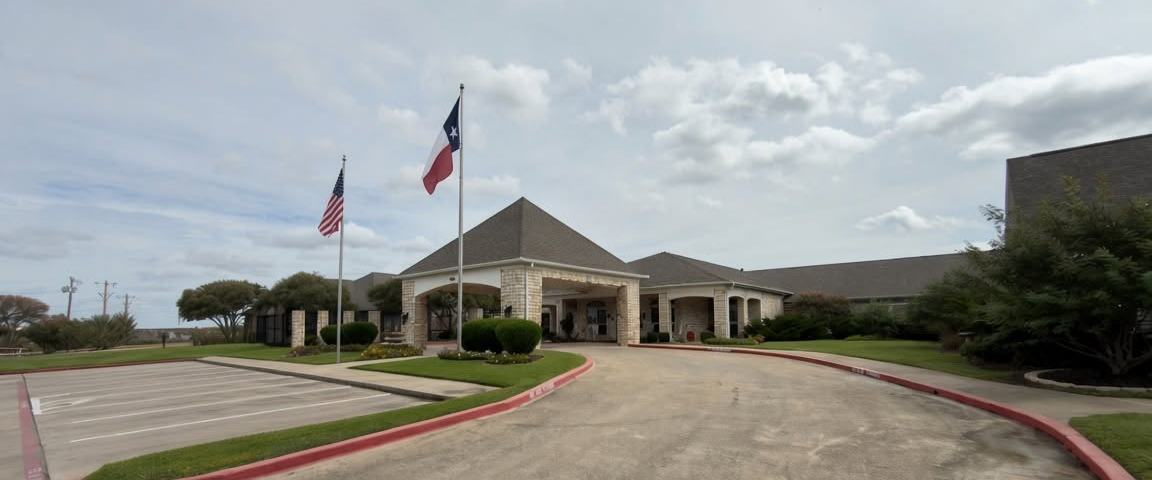
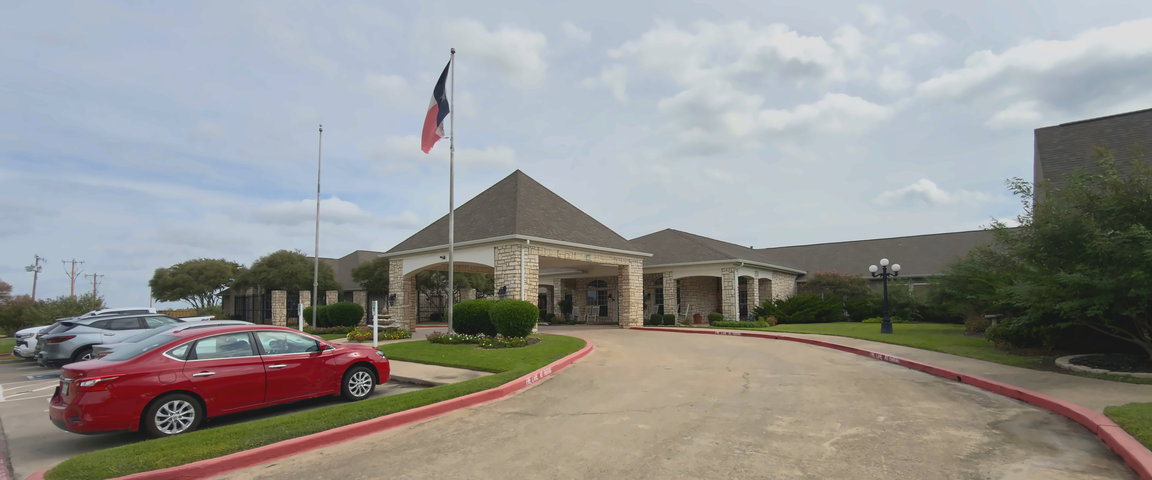
Restore Life at Live Oak photos and retouch the Denison gallery. (#4)
Bring back the four community-life photos dropped in the site rebuild
(staff costumes, jazz-band window, both cotton-candy shots) and replace
every current gallery and hero image with a retouched version served as
WebP. Rename the mislabeled puzzle and gardening files, and swap the
digitally edited entrance photo for the camera original (cars and the
Texas flag as they were that day).

diff --git a/sites/denison/gallery.html b/sites/denison/gallery.html
@@ -15,7 +15,7 @@
   <meta property="og:image" content="https://liveoakdenison.com/assets/photos/og-entrance.jpg">
   <meta property="og:image:width" content="1152">
   <meta property="og:image:height" content="605">
-  <meta property="og:image:alt" content="Front entrance of Live Oak Denison with U.S. and Texas flags">
+  <meta property="og:image:alt" content="Front entrance of Live Oak Denison with a stone porte-cochère and the Texas flag flying">
   <meta name="twitter:card" content="summary_large_image">
   <meta name="twitter:title" content="Photos of Live Oak Denison | Senior Living in Denison TX">
   <meta name="twitter:description" content="Photos of Live Oak Denison in Denison, TX: our front entrance, living room, library and game room, and sunny sitting areas. Tour in person anytime.">
@@ -108,7 +108,7 @@
   <section>
     <div class="wrap">
       <figure class="photo-banner">
-        <picture><source type="image/webp" srcset="/assets/photos/entrance-hero-1152.webp"><img src="/assets/photos/entrance-hero-1152.jpg" alt="Front entrance of Live Oak Denison with a stone porte-cochère and U.S. and Texas flags" width="1152" height="480" loading="lazy" decoding="async"></picture>
+        <picture><source type="image/webp" srcset="/assets/photos/entrance-hero-1152.webp"><img src="/assets/photos/entrance-hero-1152.jpg" alt="Front entrance of Live Oak Denison with a stone porte-cochère and the Texas flag flying" width="1152" height="480" loading="lazy" decoding="async"></picture>
       </figure>
       <div class="photo-strip">
         <figure class="r4x3">
@@ -120,17 +120,21 @@
           <figcaption>Library &amp; game room</figcaption>
         </figure>
         <figure class="r3x4">
-          <picture><source type="image/webp" srcset="/assets/photos/sitting-nook.webp"><img src="/assets/photos/sitting-nook.jpg" alt="Sunny sitting nook at Live Oak Denison with two wingback chairs and an ottoman by a tall window" width="480" height="640" loading="lazy" decoding="async"></picture>
+          <picture><source type="image/webp" srcset="/assets/photos/sitting-nook.webp"><img src="/assets/photos/sitting-nook.jpg" alt="Sunny sitting nook at Live Oak Denison with two wingback chairs and an ottoman by a tall window" width="410" height="512" loading="lazy" decoding="async"></picture>
           <figcaption>Sunny sitting nook</figcaption>
         </figure>
       </div>
 
       <h2 style="margin-top:3rem;">Life at Live Oak</h2>
       <div class="gallery-grid activity-grid" style="display:grid;grid-template-columns:repeat(auto-fill,minmax(220px,1fr));gap:1rem;margin-top:1rem;">
-        <figure class="r1x1"><img src="/assets/img/celebration-1.webp" alt="Residents at a luau-themed celebration at Live Oak Denison, with a visitor in a Santa beard" width="800" height="450" loading="lazy" decoding="async" style="width:100%;aspect-ratio:1;object-fit:cover;border-radius:8px;"></figure>
-        <figure class="r1x1"><img src="/assets/img/celebration-2.webp" alt="A resident in a fedora and pinstripe suit at a casino-themed party at Live Oak Denison" width="800" height="450" loading="lazy" decoding="async" style="width:100%;aspect-ratio:1;object-fit:cover;border-radius:8px;"></figure>
-        <figure class="r1x1"><picture><source type="image/webp" srcset="/assets/img/activity-dominoes.webp"><img src="/assets/img/activity-dominoes.jpg" alt="Residents and a team member working on a jigsaw puzzle together at Live Oak Denison" width="800" height="600" loading="lazy" decoding="async" style="width:100%;aspect-ratio:1;object-fit:cover;border-radius:8px;"></picture></figure>
-        <figure class="r1x1"><picture><source type="image/webp" srcset="/assets/img/activity-puzzle.webp"><img src="/assets/img/activity-puzzle.jpg" alt="Residents planting seedlings in raised garden beds at Live Oak Denison" width="800" height="1016" loading="lazy" decoding="async" style="width:100%;aspect-ratio:1;object-fit:cover;border-radius:8px;"></picture></figure>
+        <figure class="r1x1"><picture><source type="image/webp" srcset="/assets/img/staff-costumes.webp"><img src="/assets/img/staff-costumes.jpg" alt="Staff in colorful circus costumes at a themed celebration at Live Oak Denison" width="1600" height="900" loading="lazy" decoding="async" style="width:100%;aspect-ratio:1;object-fit:cover;border-radius:8px;"></picture></figure>
+        <figure class="r1x1"><picture><source type="image/webp" srcset="/assets/img/jazz-band-window.webp"><img src="/assets/img/jazz-band-window.jpg" alt="Jazz-band silhouette decal on the windows at Live Oak Denison, framed by gold fringe curtains" width="1593" height="896" loading="lazy" decoding="async" style="width:100%;aspect-ratio:1;object-fit:cover;border-radius:8px;"></picture></figure>
+        <figure class="r1x1"><picture><source type="image/webp" srcset="/assets/img/cotton-candy-1.webp"><img src="/assets/img/cotton-candy-1.jpg" alt="A Live Oak Denison resident enjoying a cone of blue cotton candy" width="1103" height="1379" loading="lazy" decoding="async" style="width:100%;aspect-ratio:1;object-fit:cover;border-radius:8px;"></picture></figure>
+        <figure class="r1x1"><picture><source type="image/webp" srcset="/assets/img/cotton-candy-2.webp"><img src="/assets/img/cotton-candy-2.jpg" alt="Two Live Oak Denison residents sharing a cone of pink cotton candy" width="1600" height="1067" loading="lazy" decoding="async" style="width:100%;aspect-ratio:1;object-fit:cover;border-radius:8px;"></picture></figure>
+        <figure class="r1x1"><picture><source type="image/webp" srcset="/assets/img/celebration-1.webp"><img src="/assets/img/celebration-1.jpg" alt="Residents at a luau-themed celebration at Live Oak Denison, with a visitor in a Santa beard" width="800" height="450" loading="lazy" decoding="async" style="width:100%;aspect-ratio:1;object-fit:cover;border-radius:8px;"></picture></figure>
+        <figure class="r1x1"><picture><source type="image/webp" srcset="/assets/img/celebration-2.webp"><img src="/assets/img/celebration-2.jpg" alt="A resident in a fedora and pinstripe suit at a casino-themed party at Live Oak Denison" width="704" height="432" loading="lazy" decoding="async" style="width:100%;aspect-ratio:1;object-fit:cover;border-radius:8px;"></picture></figure>
+        <figure class="r1x1"><picture><source type="image/webp" srcset="/assets/img/activity-jigsaw-puzzle.webp"><img src="/assets/img/activity-jigsaw-puzzle.jpg" alt="Residents and a team member working on a jigsaw puzzle together at Live Oak Denison" width="752" height="564" loading="lazy" decoding="async" style="width:100%;aspect-ratio:1;object-fit:cover;border-radius:8px;"></picture></figure>
+        <figure class="r1x1"><picture><source type="image/webp" srcset="/assets/img/activity-gardening.webp"><img src="/assets/img/activity-gardening.jpg" alt="Residents planting seedlings in raised garden beds at Live Oak Denison, including a woman in a floral hat" width="784" height="985" loading="lazy" decoding="async" style="width:100%;aspect-ratio:1;object-fit:cover;border-radius:8px;"></picture></figure>
         <figure class="r1x1"><picture><source type="image/webp" srcset="/assets/img/resident-celebration.webp"><img src="/assets/img/resident-celebration.jpg" alt="Residents and team members at a St. Patrick's Day celebration at Live Oak Denison" width="800" height="450" loading="lazy" decoding="async" style="width:100%;aspect-ratio:1;object-fit:cover;border-radius:8px;"></picture></figure>
       </div>
       <p style="margin-top:1.5rem;text-align:center;"><a href="https://www.facebook.com/p/Live-Oak-Denison-61579510118988/" target="_blank" rel="noopener" class="btn btn-primary">See more photos on Facebook</a></p>

diff --git a/sites/denison/index.html b/sites/denison/index.html
@@ -15,7 +15,7 @@
   <meta property="og:image" content="https://liveoakdenison.com/assets/photos/og-entrance.jpg">
   <meta property="og:image:width" content="1152">
   <meta property="og:image:height" content="605">
-  <meta property="og:image:alt" content="Front entrance of Live Oak Denison with U.S. and Texas flags">
+  <meta property="og:image:alt" content="Front entrance of Live Oak Denison with a stone porte-cochère and the Texas flag flying">
   <meta name="twitter:card" content="summary_large_image">
   <meta name="twitter:title" content="Denison Assisted Living &amp; Memory Care | Live Oak">
   <meta name="twitter:description" content="Denison assisted living and Alzheimer&#x27;s memory care at Live Oak, serving Sherman, Pottsboro and Grayson County families. Schedule a tour today.">
@@ -152,13 +152,13 @@
     <div class="hero-bg">
       <picture>
         <source type="image/webp"
-                srcset="/assets/photos/entrance-hero-640.webp 640w, /assets/photos/entrance-hero-1024.webp 1024w, /assets/photos/entrance-hero-1152.webp 1152w"
+                srcset="/assets/photos/entrance-hero-640.webp 640w, /assets/photos/entrance-hero-1024.webp 1024w, /assets/photos/entrance-hero-1152.webp 1152w, /assets/photos/entrance-hero-1600.webp 1600w"
                 sizes="(max-width: 720px) 150vw, 100vw">
         <img src="/assets/photos/entrance-hero-1152.jpg"
-             srcset="/assets/photos/entrance-hero-640.jpg 640w, /assets/photos/entrance-hero-1024.jpg 1024w, /assets/photos/entrance-hero-1152.jpg 1152w"
+             srcset="/assets/photos/entrance-hero-640.jpg 640w, /assets/photos/entrance-hero-1024.jpg 1024w, /assets/photos/entrance-hero-1152.jpg 1152w, /assets/photos/entrance-hero-1600.jpg 1600w"
              sizes="(max-width: 720px) 150vw, 100vw"
              width="1152" height="480" class="hero-photo" fetchpriority="high" decoding="async"
-             alt="Front entrance of Live Oak Denison in Denison, Texas — a stone porte-cochère with U.S. and Texas flags flying out front">
+             alt="Front entrance of Live Oak Denison in Denison, Texas — a stone porte-cochère with the Texas flag flying out front">
       </picture>
     </div>
     <div class="hero-inner">
@@ -202,7 +202,7 @@
         </div>
         <div>
           <div class="ph ph-3x4 has-photo" style="max-width: 460px; margin: 0 auto; border-radius: var(--radius-lg); box-shadow: var(--shadow-md);">
-            <picture><source type="image/webp" srcset="/assets/photos/sitting-nook.webp"><img src="/assets/photos/sitting-nook.jpg" alt="Sunny sitting nook at Live Oak Denison with two wingback chairs and an ottoman beside a tall window" width="480" height="640" class="photo" loading="lazy" decoding="async"></picture>
+            <picture><source type="image/webp" srcset="/assets/photos/sitting-nook.webp"><img src="/assets/photos/sitting-nook.jpg" alt="Sunny sitting nook at Live Oak Denison with two wingback chairs and an ottoman beside a tall window" width="410" height="512" class="photo" loading="lazy" decoding="async"></picture>
           </div>
         </div>
       </div>
@@ -285,15 +285,15 @@
       </div>
       <div class="photo-strip">
         <figure class="r4x3">
-          <picture><source type="image/webp" srcset="/assets/photos/living-room-fireplace.webp"><img src="/assets/photos/living-room-fireplace.jpg" alt="Living room with fireplace, sofa, wingback chairs, and grand piano" width="640" height="480" loading="lazy" decoding="async"></picture>
+          <picture><source type="image/webp" srcset="/assets/photos/living-room-fireplace.webp"><img src="/assets/photos/living-room-fireplace.jpg" alt="Living room at Live Oak Denison with a fireplace, sofa, wingback chairs, and a grand piano" width="640" height="480" loading="lazy" decoding="async"></picture>
           <figcaption>Living room</figcaption>
         </figure>
         <figure class="r4x3">
-          <picture><source type="image/webp" srcset="/assets/photos/library-game-room.webp"><img src="/assets/photos/library-game-room.jpg" alt="Library and game room with built-in bookshelves, a table and chairs, a chandelier, and a TV" width="640" height="480" loading="lazy" decoding="async"></picture>
+          <picture><source type="image/webp" srcset="/assets/photos/library-game-room.webp"><img src="/assets/photos/library-game-room.jpg" alt="Library and game room at Live Oak Denison with built-in bookshelves, a table and chairs, a chandelier, and a TV" width="640" height="480" loading="lazy" decoding="async"></picture>
           <figcaption>Library &amp; game room</figcaption>
         </figure>
         <figure class="r3x4">
-          <picture><source type="image/webp" srcset="/assets/photos/sitting-nook.webp"><img src="/assets/photos/sitting-nook.jpg" alt="Sitting nook with two wingback chairs and an ottoman by a tall window" width="480" height="640" loading="lazy" decoding="async"></picture>
+          <picture><source type="image/webp" srcset="/assets/photos/sitting-nook.webp"><img src="/assets/photos/sitting-nook.jpg" alt="Sunny sitting nook at Live Oak Denison with two wingback chairs and an ottoman by a tall window" width="410" height="512" loading="lazy" decoding="async"></picture>
           <figcaption>Sitting nook</figcaption>
         </figure>
       </div>
@@ -331,7 +331,7 @@
         </div>
         <div>
           <div class="photo-banner">
-            <picture><source type="image/webp" srcset="/assets/photos/entrance-hero-1024.webp"><img src="/assets/photos/entrance-hero-1024.jpg" alt="Live Oak Denison entrance with flags and covered drive-up porte-cochère" width="1024" height="427" loading="lazy" decoding="async"></picture>
+            <picture><source type="image/webp" srcset="/assets/photos/entrance-hero-1024.webp"><img src="/assets/photos/entrance-hero-1024.jpg" alt="Live Oak Denison entrance with a covered drive-up porte-cochère and the Texas flag flying" width="1024" height="427" loading="lazy" decoding="async"></picture>
           </div>
         </div>
       </div>

diff --git a/sites/denison/stone-brook.html b/sites/denison/stone-brook.html
@@ -15,7 +15,7 @@
   <meta property="og:image" content="https://liveoakdenison.com/assets/photos/og-entrance.jpg">
   <meta property="og:image:width" content="1152">
   <meta property="og:image:height" content="605">
-  <meta property="og:image:alt" content="Front entrance of Live Oak Denison with U.S. and Texas flags">
+  <meta property="og:image:alt" content="Front entrance of Live Oak Denison with a stone porte-cochère and the Texas flag flying">
   <meta name="twitter:card" content="summary_large_image">
   <meta name="twitter:title" content="Stone Brook Assisted Living Is Now Live Oak Denison">
   <meta name="twitter:description" content="Stone Brook Assisted Living at 1616 Lifesearch Way in Denison, TX is now Live Oak Denison — same location, new name, new ownership and leadership.">
@@ -109,7 +109,7 @@
   <section>
     <div class="wrap-narrow prose">
       <figure class="figure" style="margin-top: 0;">
-        <picture><source type="image/webp" srcset="/assets/photos/entrance-hero-1024.webp"><img src="/assets/photos/entrance-hero-1024.jpg" alt="Entrance of Live Oak Denison, formerly Stone Brook Assisted Living, at 1616 Lifesearch Way in Denison, Texas" width="1024" height="427" loading="lazy" decoding="async"></picture>
+        <picture><source type="image/webp" srcset="/assets/photos/entrance-hero-1024.webp"><img src="/assets/photos/entrance-hero-1024.jpg" alt="Entrance of Live Oak Denison, formerly Stone Brook Assisted Living, at 1616 Lifesearch Way in Denison, Texas, with the Texas flag flying" width="1024" height="427" loading="lazy" decoding="async"></picture>
         <figcaption>1616 Lifesearch Way, Denison — the same community you may have known as Stone Brook.</figcaption>
       </figure>
 

diff --git a/sites/denison/memory-care.html b/sites/denison/memory-care.html
@@ -15,7 +15,7 @@
   <meta property="og:image" content="https://liveoakdenison.com/assets/photos/og-entrance.jpg">
   <meta property="og:image:width" content="1152">
   <meta property="og:image:height" content="605">
-  <meta property="og:image:alt" content="Front entrance of Live Oak Denison with U.S. and Texas flags">
+  <meta property="og:image:alt" content="Front entrance of Live Oak Denison with a stone porte-cochère and the Texas flag flying">
   <meta name="twitter:card" content="summary_large_image">
   <meta name="twitter:title" content="Memory Care in Denison &amp; Sherman, TX | Live Oak Denison">
   <meta name="twitter:description" content="Alzheimer&#x27;s and dementia memory care in Denison, TX — a secure community with certified staff, structured days, and 24/7 care. Near Sherman.">

diff --git a/sites/denison/services.html b/sites/denison/services.html
@@ -15,7 +15,7 @@
   <meta property="og:image" content="https://liveoakdenison.com/assets/photos/og-entrance.jpg">
   <meta property="og:image:width" content="1152">
   <meta property="og:image:height" content="605">
-  <meta property="og:image:alt" content="Front entrance of Live Oak Denison with U.S. and Texas flags">
+  <meta property="og:image:alt" content="Front entrance of Live Oak Denison with a stone porte-cochère and the Texas flag flying">
   <meta name="twitter:card" content="summary_large_image">
   <meta name="twitter:title" content="Senior Care Services in Denison, TX | Live Oak Denison">
   <meta name="twitter:description" content="Assisted living, memory care, dining, wellness, and activities at Live Oak Denison in Denison, TX — designed around each resident&#x27;s day.">

diff --git a/sites/denison/faq.html b/sites/denison/faq.html
@@ -15,7 +15,7 @@
   <meta property="og:image" content="https://liveoakdenison.com/assets/photos/og-entrance.jpg">
   <meta property="og:image:width" content="1152">
   <meta property="og:image:height" content="605">
-  <meta property="og:image:alt" content="Front entrance of Live Oak Denison with U.S. and Texas flags">
+  <meta property="og:image:alt" content="Front entrance of Live Oak Denison with a stone porte-cochère and the Texas flag flying">
   <meta name="twitter:card" content="summary_large_image">
   <meta name="twitter:title" content="Assisted Living FAQ: Cost, Medicaid &amp; More | Live Oak">
   <meta name="twitter:description" content="Answers about assisted living and memory care in Denison, TX: cost, Medicare and Medicaid, Type B licensing, visiting, move-in, and tours.">

diff --git a/sites/denison/floor-plans.html b/sites/denison/floor-plans.html
@@ -15,7 +15,7 @@
   <meta property="og:image" content="https://liveoakdenison.com/assets/photos/og-entrance.jpg">
   <meta property="og:image:width" content="1152">
   <meta property="og:image:height" content="605">
-  <meta property="og:image:alt" content="Front entrance of Live Oak Denison with U.S. and Texas flags">
+  <meta property="og:image:alt" content="Front entrance of Live Oak Denison with a stone porte-cochère and the Texas flag flying">
   <meta name="twitter:card" content="summary_large_image">
   <meta name="twitter:title" content="Assisted Living Floor Plans in Denison, TX | Live Oak">
   <meta name="twitter:description" content="Studio, one-bedroom, companion, and memory care suites at Live Oak Denison in Denison, TX. Bring your own furniture. Call for current pricing.">

diff --git a/sites/denison/contact.html b/sites/denison/contact.html
@@ -15,7 +15,7 @@
   <meta property="og:image" content="https://liveoakdenison.com/assets/photos/og-entrance.jpg">
   <meta property="og:image:width" content="1152">
   <meta property="og:image:height" content="605">
-  <meta property="og:image:alt" content="Front entrance of Live Oak Denison with U.S. and Texas flags">
+  <meta property="og:image:alt" content="Front entrance of Live Oak Denison with a stone porte-cochère and the Texas flag flying">
   <meta name="twitter:card" content="summary_large_image">
   <meta name="twitter:title" content="Contact &amp; Tours | Live Oak Denison, Denison TX">
   <meta name="twitter:description" content="Schedule a tour or request pricing at Live Oak Denison, 1616 Lifesearch Way, Denison, TX 75020. Call (903) 465-5051 — care staff on-site 24/7.">

diff --git a/sites/denison/assisted-living.html b/sites/denison/assisted-living.html
@@ -15,7 +15,7 @@
   <meta property="og:image" content="https://liveoakdenison.com/assets/photos/og-entrance.jpg">
   <meta property="og:image:width" content="1152">
   <meta property="og:image:height" content="605">
-  <meta property="og:image:alt" content="Front entrance of Live Oak Denison with U.S. and Texas flags">
+  <meta property="og:image:alt" content="Front entrance of Live Oak Denison with a stone porte-cochère and the Texas flag flying">
   <meta name="twitter:card" content="summary_large_image">
   <meta name="twitter:title" content="Assisted Living in Denison, TX | Live Oak Denison">
   <meta name="twitter:description" content="Assisted living in Denison, TX: private apartments, chef-prepared meals, help with daily care, and staff on-site 24/7. Serving Grayson County.">

diff --git a/sites/denison/about.html b/sites/denison/about.html
@@ -15,7 +15,7 @@
   <meta property="og:image" content="https://liveoakdenison.com/assets/photos/og-entrance.jpg">
   <meta property="og:image:width" content="1152">
   <meta property="og:image:height" content="605">
-  <meta property="og:image:alt" content="Front entrance of Live Oak Denison with U.S. and Texas flags">
+  <meta property="og:image:alt" content="Front entrance of Live Oak Denison with a stone porte-cochère and the Texas flag flying">
   <meta name="twitter:card" content="summary_large_image">
   <meta name="twitter:title" content="About Live Oak Denison | Senior Care in Grayson County">
   <meta name="twitter:description" content="Our story, our values, and why Live Oak Denison is proud to care for families in Denison, Sherman, and across Grayson County, Texas.">
